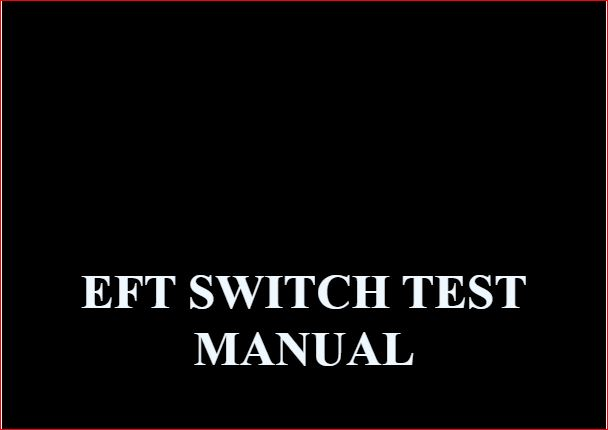
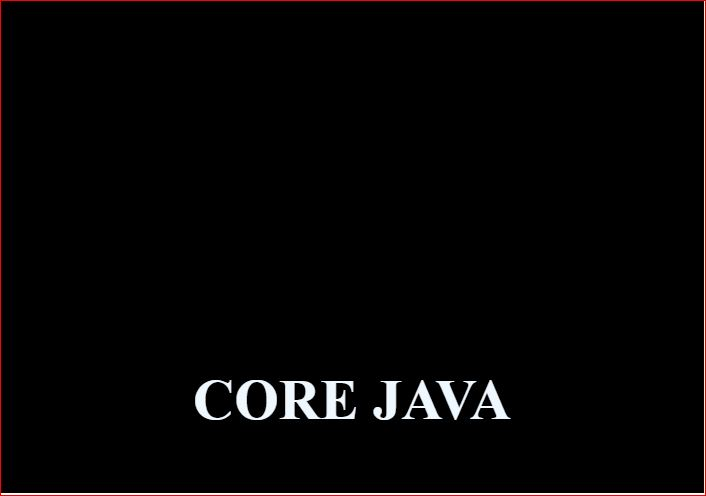
Experience section: manual testing section modified

Changed region(s): [[0.0, 0.0, 1.0, 1.0], [0.125, 0.6349, 0.875, 0.7256], [0.25, 0.7558, 0.7188, 0.8767]]

diff --git a/index.html b/index.html
@@ -412,7 +412,7 @@
                     <li><span class="filtu active" data-filter="wds wdv dbi scd web">All items</span></li>
                     <li><span class="filtu" data-filter="wds"> webdesign</span></li>
                     <li><span class="filtu" data-filter="wdv">Test Automation</span></li>
-                    <li><span class="filtu" data-filter="dbi">Manual Test</span></li>
+                    <li><span class="filtu" data-filter="dbi">Java Programs</span></li>
                    
                     <!-- <li><span class="filtu" data-filter="scd2">Test1</span></li>
                     <li><span class="filtu" data-filter="scd3">Test2</span></li> -->
@@ -453,8 +453,8 @@
                                 <img src="images/MAN1.JPG" />
                                 <div class="b-wrapper">
                                     <h2 class="b-animate b-from-left    b-delay03 "><p class = "mrgn-top">Click-here</p></h2>
-                                    <p class="b-animate b-from-right    b-delay03 ">System Test, Funcion Test, Integration Test & Performance Test
-                                        <br><span class="m_4">EFT Switch UI and backend Applications</span></p>
+                                    <p class="b-animate b-from-right    b-delay03 ">Java Programs for practice and concept learning
+                                        <br><span class="m_4">Logical Thinking</span></p>
                                 </div>
                             </a>
                         </div>
@@ -474,19 +474,19 @@
                         </div>
                     </div>
 
-                    <!-- <div class="portfolio scd mix_all" data-cat="scd1" style="display: inline-block; opacity: 1;">
+                    <div class="portfolio wds mix_all" data-cat="wds" style="display: inline-block; opacity: 1;">
                         <div class="portfolio-wrapper">
-                            <a href="#small-dialog3" class="b-link-stripe b-animate-go  thickbox popup-with-zoom-anim">
-                                <img src="images/AUTO4.JPG" />
+                            <a href="#small-dialog4" class="b-link-stripe b-animate-go  thickbox popup-with-zoom-anim">
+                                <img src="images/SAMPLEWEB1.JPG" />
                                 <div class="b-wrapper">
                                     <h2 class="b-animate b-from-left    b-delay03 "><p class = "mrgn-top">
-                                        Click-to-zoom</p></h2>
-                                    <p class="b-animate b-from-right    b-delay03 ">Lorem ipsum dolor sit
-                                        amet.<br><span class="m_4">Photography</span></p>
+                                        Click-here</p></h2>
+                                    <p class="b-animate b-from-right    b-delay03 ">Sample website to check div<br>
+                                       <span class="m_4">HTML, CSS, JAVASCRIPT</span></p>
                                 </div>
                             </a>
                         </div>
-                    </div> -->
+                    </div>
 
                     <!-- <div class="portfolio web mix_all" data-cat="web" style="display: inline-block; opacity: 1;">
                         <div class="portfolio-wrapper">
@@ -530,18 +530,17 @@
             <div id="small-dialog" class="mfp-hide">
                 <div class="image-top">
                     <!-- <img src="images/pic1x.jpg" alt="" /> -->
-                    <p> This WebSite is designed using visual studio sdk. Javascript pluggins like -<br>
+                    <p> This WebSite is designed using visual studio sdk. Following Javascript pluggins are used in this project-<br>
                         - Top-Nav, <br>
-                        -  Responsive-Slides, <br>
+                        - Responsive-Slides, <br>
                         - Mixitup-Portfolio etc. <br>
-                        are used here. Also - <br>
+                        <br>
                         - Bootstrap 4.1, <br>
                         - Jquery 3.6, <br>
-                        - AJAX and Html 4  <br>have been used in this design. </p>
-                    <p>Next Line</p>  
+                        - Html 4  </p>
                        
              
-                    <p><a class="big" href="http://127.0.0.1:5501/OfficialWeb.html">Link to GitHub</a></p>
+                    <p>Source code :<a class="big" href="http://127.0.0.1:5501/OfficialWeb.html">Link to GitHub</a></p>
                 </div>
             </div>
 
@@ -569,13 +568,11 @@
             <div id="small-dialog2" class="mfp-hide">
                 <div class="image-top">
                     <!-- <img src="images/pic3.jpg" alt="" /> -->
-                    <p>Following Manual testing procedures have been conducted on various releases of the applications 
-                        for the EFT Switch UI and back end. The function, system, integration and Performance testing 
-                        have been conducted to verify the optimum quality of the product</p>
-                        <p>Functionalities</p>  
-                        <p>The system</p>   
-                        <p>Integration Testing</p>   
-                        <p>Performance Testing using the Apache Jmeter Source simulator</p>     
+                    <p>These are some sample programs for practicing the java logics and concepts</p>
+                        <p>prgram 1</p>  <p><a class="big" href="http://127.0.0.1:5501/OfficialWeb.html">Link to GitHub</a></p>
+                        <p>prgram 2</p>   <p><a class="big" href="http://127.0.0.1:5501/OfficialWeb.html">Link to GitHub</a></p>
+                        <p>prgram 3</p>   <p><a class="big" href="http://127.0.0.1:5501/OfficialWeb.html">Link to GitHub</a></p>
+                        <p>prgram 4</p>     
                         <p><a class="big" href="http://127.0.0.1:5501/OfficialWeb.html">Link to GitHub</a></p>
                 </div>
             </div>
@@ -598,7 +595,7 @@
                 </div>
             </div>
 
-            <!-- <div id="small-dialog4" class="mfp-hide">
+            <div id="small-dialog4" class="mfp-hide">
                 <div class="image-top">
                     <img src="images/pic5.jpg" alt="" />
                     <p>Lorem Ipsum is simply dummy text of the printing and typesetting industry. Lorem Ipsum has
@@ -609,7 +606,7 @@
                         passages, and more recently with desktop publishing software like Aldus PageMaker including
                         versions of Lorem Ipsum.</p>
                 </div>
-            </div> -->
+            </div>
 
 
 
@@ -643,13 +640,16 @@
                        <p>  DOMAIN : FinTech | Role: QA Automation Engineer | Technologies: Selenium WebDriver, 
                             TestNG, Java, Maven, Git, Apache POI <br>
                             DESCRIPTION : Developed and implemented an automation testing framework for an EFT 
-                            (Electronic Funds Transfer) Switch application to support regression and smoke testing. 
+                            (Electronic Funds Transfer) Switch application UI to support regression testing.
                             The framework was designed with a hybrid approach, integrating data-driven testing 
                             capabilities for improved flexibility and reusability. </p>
                            <p>  KEY RESPONSIBILITIES : </p>
                             <ul class="ulservice">
                                 <li> Designed and set up a custom hybrid automation framework from scratch using Selenium WebDriver, TestNG, and Maven.</li>
-                                <li> Implemented group-based test execution for regression suites using TestNG XML configurations. </li>
+                                <li> Test cases are implemented and group attribute added using testNG annotation to group 
+                                    the test-cases under regression. <br> 
+                                    Implemented regression test suite and run all the test cases under the group among all the test classes.
+                                </li>
                                 <li> Developed custom TestNG listeners for: </li>
                                 <ul>
                                     <li> Screenshot capture on test failure.</li>
@@ -681,74 +681,160 @@
                         </p>
                         <p>The following testing procedures have been conducted at various releases of the
                             EFT switch software product.   </p>
-                            <h4 class="title2"> System Testing :</h4>
-                           <p> The entire environment setup readiness checking which involves - <br>
+
+
+                            <h4 class="title2"> Function Testing :</h4>
+                           <p> As a part of the UI function testing, the configration for different modules are done 
+                            and verifies that the configuration data is properly stored in the database and reflects 
+                            in the UI. The following functions are tested, during each release as regression test - <br> 
+                                                             
                             <ul class="ulservice">
-                                <li>OS(Checking and ensuring the readiness of the Windows and Linux machines on 
-                                    which the SqlServer, front-end application and the back-end applications are 
-                                    running)</li>
-                                <li>Checking and Verifying the system network is active and ready for the testing(The 
-                                    ip-address, subnet-mask and firewall settings will be verified to match with that 
-                                    configured in the application softwares)</li>
-                                <li>Verifying the Webserver service is running and the UI is available at the 
-                                    endpoint url(UI is hosted in ApacheTomcat)</li>
-                                <li>Starting the back-end application(EFT Switch) and verifying that the application 
-                                    server is listening on the configured port.</li>
-                                <li>Ensuring that the SQLServer service is runnig and available at the default 
-                                    port(1433).</li>                              
+                                <li>User configuration : configure different users and check the login using the new 
+                                    user credentials.</li>
+                                <li>System Configurations : Fields(Host Name, Host IP, SSL Certificate(key store file) 
+                                    location and access password)</li>
+                                <li>TCP interface module configuration : configure the input side and output side modules.</li>
+                                <li>ISO message translation interface module configuration : configure the input side and output 
+                                    side modules(sourceNode and sinkNode)</li>
+                                <li>Configuring source group, destination group, card group and the routing group : Configure.</li>                              
+                                <li>Configure BIN in the card group : The same BIN which we are suppose to send through the ISO 
+                                    message via source simulator.</li>
+                                <li>Configure route : Configre a route from Card Group -> Routing Group -> Destination Group -> 
+                                        Output ISO message translation module</li>
+                                <li>Testing the commands from UI to the back-end application, the following commands are tested -</li>
+                                <ul>
+                                    <li>logger on/off/clear,</li>
+                                    <li>TRACE on/off/clear,</li>
+                                    <li>interfaces connect/disconnect,</li>
+                                    <li>echo,</li>
+                                    <li>key exchange</li>
+                                </ul>
+
                             </ul>                             
                             </p>  
                            <p><a class="link-text" href="">Link to GitHub</a></p> 
 
-                           <h4 class="title2"> Integration Testing :</h4>
-                           <p>Verify the datatbase connection with the applications: </p>
+
+
+
+                           
+                           <h4 class="title2"> Integration and System Testing :</h4>
+                           <p>The following end to end(source simulator > back-end > sink simulator) testing are done 
+                            during each release as part of Sanity test. This is to test that the integity with other dependant 
+                            function module is not compromised with the newly added feature. These tests are carried out seperately 
+                            for <br> 
+                            (i) all the available destination interfaces mds, ngo, b24, isoadapter <br>
+                            (ii) and for all the available source interfaces pos, atm, isoadapter 
+                           </p>
+                            <p>Tests :</p>
                             <ul class="ulservice">
-                                <li>Connection check from the front-end application to the SQLServer</li>
-                                <li>Connection check from the back-end application to the SQLServer</li>
-                                <li>Connection check from the front-end application to the back-end application</li>           
+                                <li>(0200): transactin request iso message sending using client socket simulator program running in eclipse(java code) and log analysing and 
+                                    verification for the responses recieved using the UI. The client sockt program sends the byte formated iso-message over 
+                                    tcp (transport layer data transfer) to the server socket of the EFT switch input tcp-interface-module using the server-socket port. 
+                                    Then analyse the switches transaction log from DB using the UI and verifies that - it is a success(response-00) or timeout(response-91) or any other type 
+                                    of error(response-92,63,etc.).</li>
+                                <li>(0220): transactin request iso message sending using client socket simulator program running in eclipse(java code) and log analysing and 
+                                    verification for the responses recieved using the UI. The client sockt program sends the byte formated iso-message over 
+                                    tcp (transport layer data transfer) to the server socket of the EFT switch input tcp-interface-module using the server-socket port. 
+                                    Then analyse the switches transaction log from DB using the UI and verifies that - it is a success(response-00) or timeout(response-91) or any other type 
+                                    of error(response-92,63,etc.).</li>
+                                <li>(0420): transactin request iso message sending using client socket simulator program running in eclipse(java code) and log analysing and 
+                                    verification for the responses recieved using the UI. The client sockt program sends the byte formated iso-message over 
+                                    tcp (transport layer data transfer) to the server socket of the EFT switch input tcp-interface-module using the server-socket port. 
+                                    Then analyse the switches transaction log from DB using the UI and verifies that - it is a success(response-00) or timeout(response-91) or any other type 
+                                    of error(response-92,63,etc.).</li>           
                             </ul> 
-                            <p>Checking the integrity of the apllication function modules:</p>
+
+                            
+
+
+                            <h4 class="title2"> Smoke Test :</h4>
+                            <p>Post deployment of a new release in the production env. we run the typical transaction only and verifies the 
+                                logs to ensure that the system works as expected without any defect. this is done only for the ony 
+                                applicable destination interface for that project -</p>
+                            <p>Tests :</p>    
                             <ul class="ulservice">
-                                <li> This test is 
-                                    performed after editing/newly adding a feature in a module and merging that 
-                                    branch into the main branch. This is to test that the integity with other 
-                                    dependant function module is not compromised with the newly added feature.
-                                    eg;- After implementing a new functionality SAFQ(store and forward queue 
-                                    mechanism) in the transaction receiving end interface code, it must be tested 
-                                    by sending all the transaction msg types and verify that the transaction 
-                                    receiving and processing at the core proecssor is working without any variation 
-                                    from before.                                                                                            
-                                </li>
-                            </ul>
-                            </p> 
+                                <li> Initiate the logger on command to start storing the transaction logs. </li>                                                                                         
+                                <li>sending the (0200)-message using the eclipse with client socket simulator program and verifies the transaction log to ensure that 
+                                    the expected response code is generated in the log file.</li>
+                                <li>The same way, the (0220) and (0420) msgs are also test and verify.</li>
+                            </ul>                          
                            <p><a class="link-text" href="">Link to GitHub</a></p> 
+
+
+
 
                            <h4 class="title2"> API Testing :</h4>
-                           <p>pravega and mifo collections. commands and configuration update and status check</p>
-                           <p><a class="link-text" href="">Link to GitHub</a></p> 
+                           <p>EFT Switch : The commands from the UI to the back-end are testecd using the API request via postman -</p>
+                           <ul class="ulservice">
+                            <li>logger on/off/clear,</li>
+                            <li>TRACE on/off/clear,</li> 
+                            <li>interfaces connect/disconnect,</li>
+                            <li>echo, </li>
+                            <li>key exchange</li>              
+                        </ul>
+                           <p>The postman collection for ref :<a class="link-text" href="">Link to GitHub</a></p> 
+                           <p>The open source core banking software MifoX is setup in docker container and the following functions are tested using API request 
+                            via postman -</p>
+                            <ul class="ulservice">
+                                <li>Office creation</li>
+                                <li>Client creation under the office</li> 
+                                <li>Savings account creation for the Client</li>
+                                <li>debit from the saving account </li>
+                                <li>credit to the savings account</li>
+                                <li>the account to account transaction</li>
+                                <li>balance enquiry of a savings account</li>
+                            </ul>
+                           <p>The postman collection for ref :<a class="link-text" href="">Link to GitHub</a></p> 
 
-                           <h4 class="title2"> Function Testing :</h4>
-                           <p>configuring nodes and interfaces, cardgroups and bin, routes, system config, user config, command testing,hsm config and key generation. iso message sending and log analysing, tcp layer data transfer log(data stream sending and receiving using socket connections(client server )</p>
-                           <p><a class="link-text" href="">Link to GitHub</a></p> 
 
+                           
                            <h4 class="title2"> Performance Testing :</h4>
-                           <p>simulating the transaction sending using the jmeter and verifying the maximum TPS the switch application can handle. Ramp up time and no. of transaction is configured in jmeter to achieve the required tps rate.</p> 
-                           <p><a class="link-text" href="">Link to GitHub</a></p> 
+                           <p>
+                            The performance testing is done using the jmeter. The (0200) message formate is created in the jmeter test plan 
+                            using the tcp-sampler. Then the load test is  simulated by sending large number of messages with a fixed ramp up time.
+                            The goal was to check the maximum possible TPS(transactions per second) that can be performed without failure by the 
+                            EFT switch application. If we send 100 messages with a ramp up time of 1second, it means the system is fired with an 
+                            input TPS rate of 100. The response messages from the system was recorded using the listerners in the Jmeter.</p> 
+                           <p>The Testplan and Reports :<a class="link-text" href="">Link to GitHub</a></p> 
+
+
 
                            <h4 class="title2"> Docker Implementation and Testing :</h4>
-                           <p>implementaion and Testing attach the doc and the docker imges form docker hub in github</p> 
-                           <p><a class="link-text" href="">Link to GitHub</a></p> 
+                           <p>Implemented the docker environment setup in the windows system pulled the image files
+                            of the containerized applications (front-end, back-end and database) of the EFT Switch
+                            from the dockerHub. Created the containerised application instances from the image files.
+                            Testing carried out on the containerised applications.</p> 
+                           <p>The docker images :<a class="link-text" href="">Link to DockerHub</a></p> 
+                           <p>The implementation documentation :<a class="link-text" href="">Link to GitHub</a></p> 
+ 
+
+
 
                            <h4 class="title2"> AWS Implementation and Testing :</h4>
-                           <p>AWS implementation and testing pravega app attach the doc in github</p> 
-                           <p><a class="link-text" href="">Link to GitHub</a></p> 
+                           <p>Implemented the EFT Switch applications (front-end, back-end and database) in the
+                            AWS cloud infrastructure using the ECS container service and the docker images form
+                            the DockerHub.
+                           </p>                            
+                           <p>The implementation documentation :<a class="link-text" href="">Link to GitHub</a></p> 
 
+
+                           
                            <h4 class="title2"> SQL Server Performance Enhancement Tuning :</h4>
-                           <p>sql server performance enhancement tuning attach doc in github</p> 
-                           <p><a class="link-text" href="">Link to GitHub</a></p> 
+                           <p>The performance Enhancement strategies carried out in the SQLServer configuration.</p> 
+                           <p>Tuning document :<a class="link-text" href="">Link to GitHub</a></p> 
+
+
 
                            <h4 class="title2"> WireShark TCP Packet Analysing :</h4>
-                           <p>Wireshark packet trace analysis -> data duplication analysed in the transaction processing at the core -> checked the wireshark input data packets and findout that the input tcp packet frame size increased per packet at higher tps and the core failed to decapsulate it and so duplication occured at the output end. core logic changed to cut the packet frame to seperate different msgs form the single tcp packet using the packet headr length info.</p> 
+                           <p>Data duplication analysed while the transaction processing at the EFT Swich core 
+                            application during the performance testing at higher TPS. Then the same test repeated 
+                            and captured the input data packets and out put data packets and analysis done.
+                            Observed that the input tcp packet frame size increased per packet at higher TPS and 
+                            the core failed to decapsulate it and so duplication occured at the output end. Logic 
+                            modification suggested as a corrective action.
+                             
+                            </p> 
                            <p><a class="link-text" href="">Link to GitHub</a></p> 
 
                       

diff --git a/css/Contacts.css b/css/Contacts.css
@@ -20,7 +20,7 @@
 	width:30%;
 	height:275px;
 	position:absolute;
-	top:10%;
+	top:18%;
 	left:10%;
 	box-shadow: 0px 0px 20px rgb(207, 223, 215);
 	border-radius: 10px;
